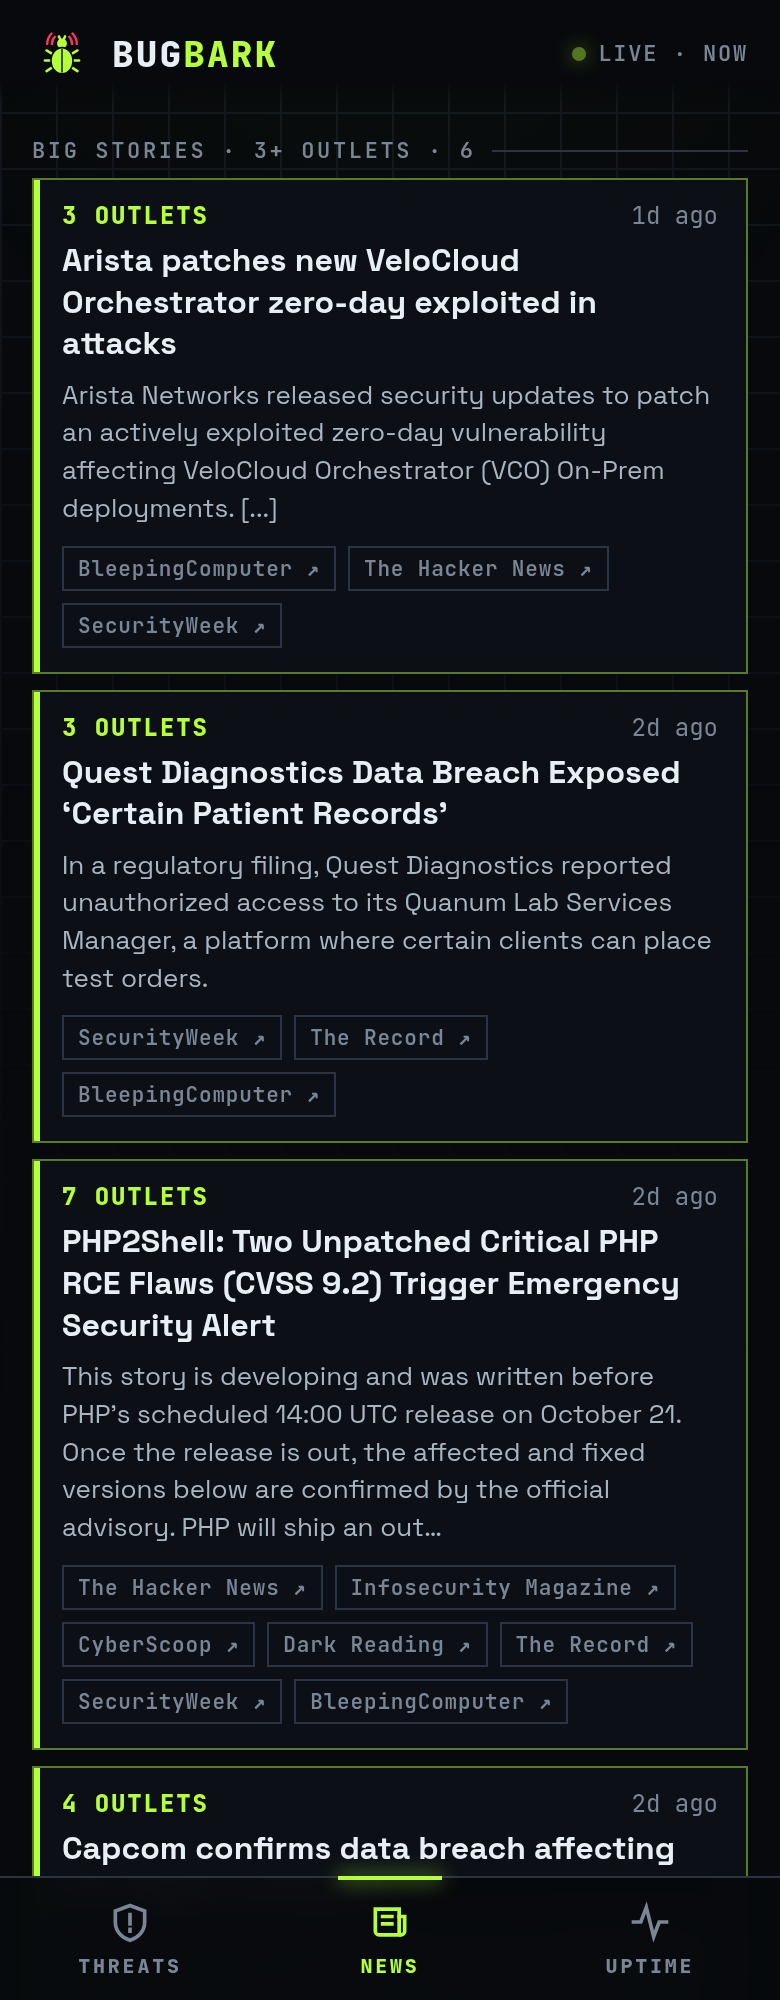
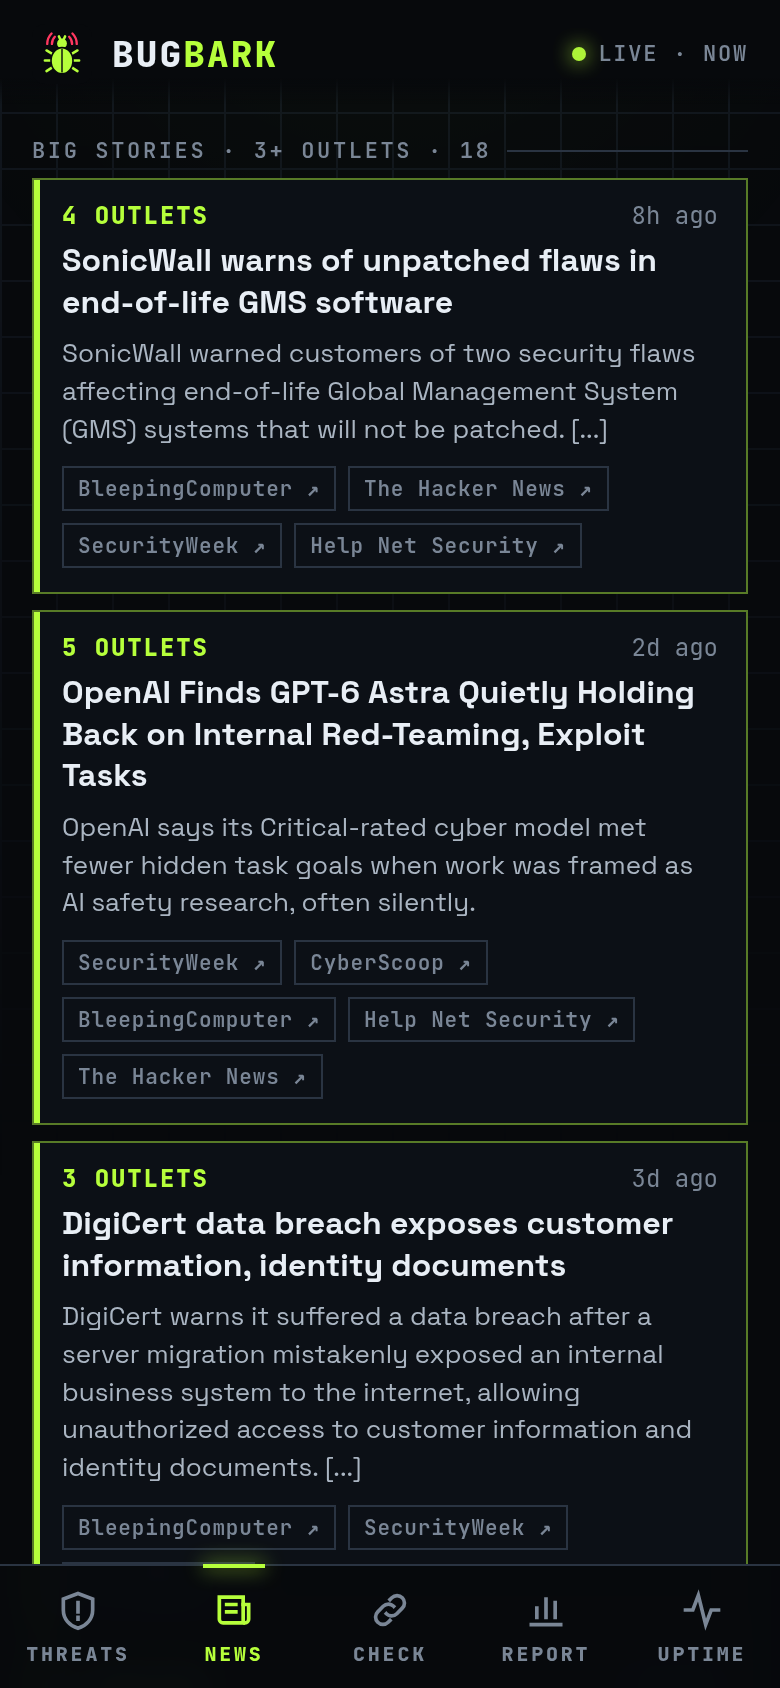
README: fresh screenshots of all six tabs in an even grid, features grouped by topic

diff --git a/README.md b/README.md
@@ -2,51 +2,69 @@
 
 Barks when a bug bites: push notifications to your phone about **major new vulnerabilities** and **outages**, plus a mobile dashboard to see what each one means. Runs for free on GitHub Actions: no server needed.
 
-<p>
-  <img src="docs/1-list.png" width="260" alt="Vulnerability list">
-  <img src="docs/2-detail.png" width="260" alt="Vulnerability details">
-  <img src="docs/3-news.png" width="260" alt="Security news">
-  <img src="docs/4-report.png" width="260" alt="Weekly report">
-  <img src="docs/5-services.png" width="260" alt="Service status">
-</p>
+<table>
+  <tr>
+    <td><img src="docs/1-threats.png" width="250" alt="Major threats"></td>
+    <td><img src="docs/2-detail.png" width="250" alt="Vulnerability details"></td>
+    <td><img src="docs/3-news.png" width="250" alt="Security news"></td>
+  </tr>
+  <tr>
+    <td align="center">Major threats</td>
+    <td align="center">What it means and how to fix it</td>
+    <td align="center">Big security stories</td>
+  </tr>
+  <tr>
+    <td><img src="docs/4-check.png" width="250" alt="Link checker"></td>
+    <td><img src="docs/5-report.png" width="250" alt="Weekly report"></td>
+    <td><img src="docs/6-uptime.png" width="250" alt="Service status"></td>
+  </tr>
+  <tr>
+    <td align="center">Is this link safe?</td>
+    <td align="center">The week in numbers</td>
+    <td align="center">What is down</td>
+  </tr>
+</table>
 
 ## What it does
 
-**Vulnerabilities.** Every 15 minutes it pulls fresh CVEs from the official [CVE list](https://www.cve.org) (minutes after publication) and [NVD](https://nvd.nist.gov), and alerts only on the ones that matter:
+Notifications go through [ntfy](https://ntfy.sh), a free push app for Android and iOS (Telegram works too). Tap one to open the details in the dashboard.
 
-- **actively exploited** in the wild ([CISA KEV](https://www.cisa.gov/known-exploited-vulnerabilities-catalog), and [VulnCheck KEV](https://vulncheck.com/kev) with a free token),
-- **likely to be exploited** soon ([EPSS](https://www.first.org/epss/) ≥ 50%),
-- **critical** (CVSS ≥ 9) in products of major vendors: Microsoft, Apple, Google, Linux, Cisco, Fortinet, Ivanti, VMware, Oracle, and more (editable list).
+### 🐞 Vulnerabilities
 
-Each alert says in plain words what the risk is ("Remote, no login → full system takeover"), why it matters, and which version fixes it. A batch from one vendor (e.g. a Chrome release with 15 critical fixes) arrives as one message.
+Every 15 minutes BugBark pulls fresh CVEs from the official [CVE list](https://www.cve.org) and [NVD](https://nvd.nist.gov), and alerts only on the ones that matter:
 
-**Public exploits.** For every major CVE it searches GitHub for proof-of-concept repositories (and reads NVD's exploit references). When exploit code shows up for a CVE you were already told about, you get a follow-up: "🧨 Exploit published". PoCs are listed as unverified: fake ones often carry malware.
+- **exploited** in the wild ([CISA KEV](https://www.cisa.gov/known-exploited-vulnerabilities-catalog), plus [VulnCheck KEV](https://vulncheck.com/kev) with a free token);
+- **likely to be exploited** soon ([EPSS](https://www.first.org/epss/) ≥ 50%);
+- **critical** (CVSS ≥ 9) at major vendors: Microsoft, Apple, Google, Linux, Cisco, Fortinet, Ivanti, VMware, Oracle and more.
 
-**Daily digest.** One morning summary: major CVEs of the last 24 hours, the top threats, the biggest news stories, and what is down. Set `instant = "exploited"` in `config.toml` to get only the urgent alerts instantly and everything else in the digest.
+Each alert says in plain words what the risk is ("Remote, no login → full system takeover") and which version fixes it. A batch from one vendor arrives as one message. When **public exploit code** appears on GitHub for a CVE you already know about, you get a follow-up.
 
-**Security news.** Headlines from BleepingComputer, The Hacker News, SecurityWeek, The Record, Krebs on Security, Dark Reading and others are grouped into stories. When three or more outlets cover the same event (a big breach, a ransomware attack, a mass-exploited bug), you get one alert. Everything else is in the dashboard's News tab and in the daily digest.
+### 🌍 What's happening in the world
 
-**Malicious packages.** When a widely used npm or PyPI package (5,000+ weekly downloads) gets a malicious release, from the [OpenSSF malicious-packages](https://github.com/ossf/malicious-packages) database: which versions, and what to do if you installed one.
+| | Alerts when | Source |
+|---|---|---|
+| 📰 **News** | 3+ outlets cover the same story | BleepingComputer, The Hacker News, SecurityWeek, The Record, Krebs and more |
+| 💧 **Data breaches** | 500K+ accounts leaked | [Have I Been Pwned](https://haveibeenpwned.com) |
+| 💀 **Ransomware** | a gang claims a large company | [ransomware.live](https://www.ransomware.live), sized by [Tranco](https://tranco-list.eu) |
+| ☣ **Malicious packages** | a popular npm / PyPI package ships malware | [OpenSSF malicious-packages](https://github.com/ossf/malicious-packages) |
+| 🌐 **Internet outages** | a whole country drops offline | [IODA](https://ioda.inetintel.cc.gatech.edu) |
 
-**Data breaches.** New breaches added to [Have I Been Pwned](https://haveibeenpwned.com) with 500K+ accounts: who, how many, and what leaked (with a warning when passwords are included).
+### 🟢 Outages
 
-**Ransomware.** Victims that ransomware gangs post on their leak sites, via [ransomware.live](https://www.ransomware.live). You get an alert when the victim is a large company (its website is in the world's top 100,000, by the [Tranco](https://tranco-list.eu) list); every claim is counted in the weekly report.
+GitHub, Cloudflare, AWS, Azure, Google Cloud, Slack, Zoom, Discord, OpenAI, Claude, npm, Docker Hub, Atlassian, Vercel, DigitalOcean, Reddit, Dropbox, Twitch and Epic Games, plus your own websites and servers. One alert when something goes down, one when it recovers.
 
-**Internet outages.** When a whole country drops off the internet (a cut cable, a blackout, a government shutdown), from [IODA](https://ioda.inetintel.cc.gatech.edu).
+### 🔗 Link checker
 
-**Link checker.** The Check tab tells you whether a link is safe to open: it compares it with ~40,000 known malware and phishing sites (URLhaus, OpenPhish and more) and looks for tricks like look-alike names (paypa1.com), fake "@" addresses and lookalike letters. It runs on your phone and the link is never sent anywhere. Install the dashboard as an app and you can share a link to BugBark from any app.
+The Check tab tells you whether a link is safe to open. It compares it with ~40,000 known malware and phishing sites and looks for tricks: look-alike names (paypa1.com), fake "@" addresses, lookalike letters, shorteners. It runs on your phone, and the link is never sent anywhere. Install the dashboard as an app to share links to it from any app.
 
-**Mute.** Too many alerts about one vendor? Tap Mute on any of its CVEs. Exploited ones still come through.
+### 🔕 Less noise
 
-**Weekly report.** On Mondays, the past week in numbers: major CVEs, top vendors, ransomware claims and the most active gangs, data breaches, and the biggest stories. The dashboard's Report tab shows the same with charts, for 7 or 30 days.
+- **Daily digest** every morning and a **weekly report** on Mondays (also as charts in the Report tab).
+- **Quiet hours** 23:00–08:00: only exploited CVEs ring at night, the rest arrive as one "Overnight" summary.
+- **Mute** a vendor with one tap. Exploited CVEs still come through.
+- **Self-check:** if a source keeps failing for an hour, BugBark tells you.
 
-**Quiet hours.** From 23:00 to 08:00 your time only actively exploited CVEs ring. Everything else waits and arrives as one "Overnight" summary in the morning. Set your timezone with the `BUGBARK_TIMEZONE` secret (e.g. `Europe/Berlin`).
-
-**Outages.** Status of GitHub, Cloudflare, AWS, Azure, Google Cloud, Slack, Zoom, Discord, OpenAI, Claude, npm, Docker Hub, Atlassian, Vercel, DigitalOcean, Reddit, Dropbox, Twitch and Epic Games, plus your own websites (HTTP) and servers (TCP port). You get one alert when something goes down and one when it recovers.
-
-**Dashboard.** Tap a notification to open the details: risk, affected versions, what to do, and links.
-
-Notifications go through [ntfy](https://ntfy.sh), a free push app for Android and iOS. Telegram is supported too. No dependencies: only the Python standard library.
+No dependencies: only the Python standard library.
 
 ## Quick start (GitHub Actions, free)
 
